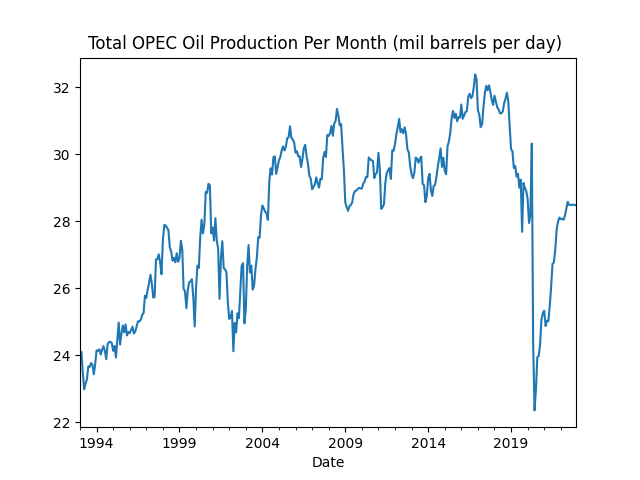
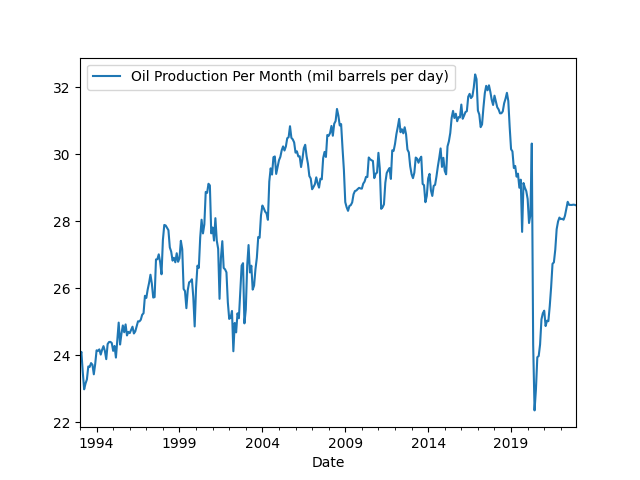
-

Changed region(s): [[0.125, 0.0625, 0.875, 0.1875], [0.125, 0.1562, 0.1875, 0.1875]]

diff --git a/en/2019/05/stats.md b/en/2019/05/stats.md
@@ -710,8 +710,9 @@ df['Month'] = df[0].astype(str).str[4:]
 df['Day'] = 1
 df['Date'] = pd.to_datetime(df[['Year','Month','Day']])
 df = df.set_index('Date')
-df[1].plot()
-plt.title('Total OPEC Oil Production Per Month (mil barrels per day) ')
+col = 'Oil Production Per Month (mil barrels per day)'
+df[col] = df[1]
+df[[col]].plot()
 plt.savefig('opec.png')
 ```
 
